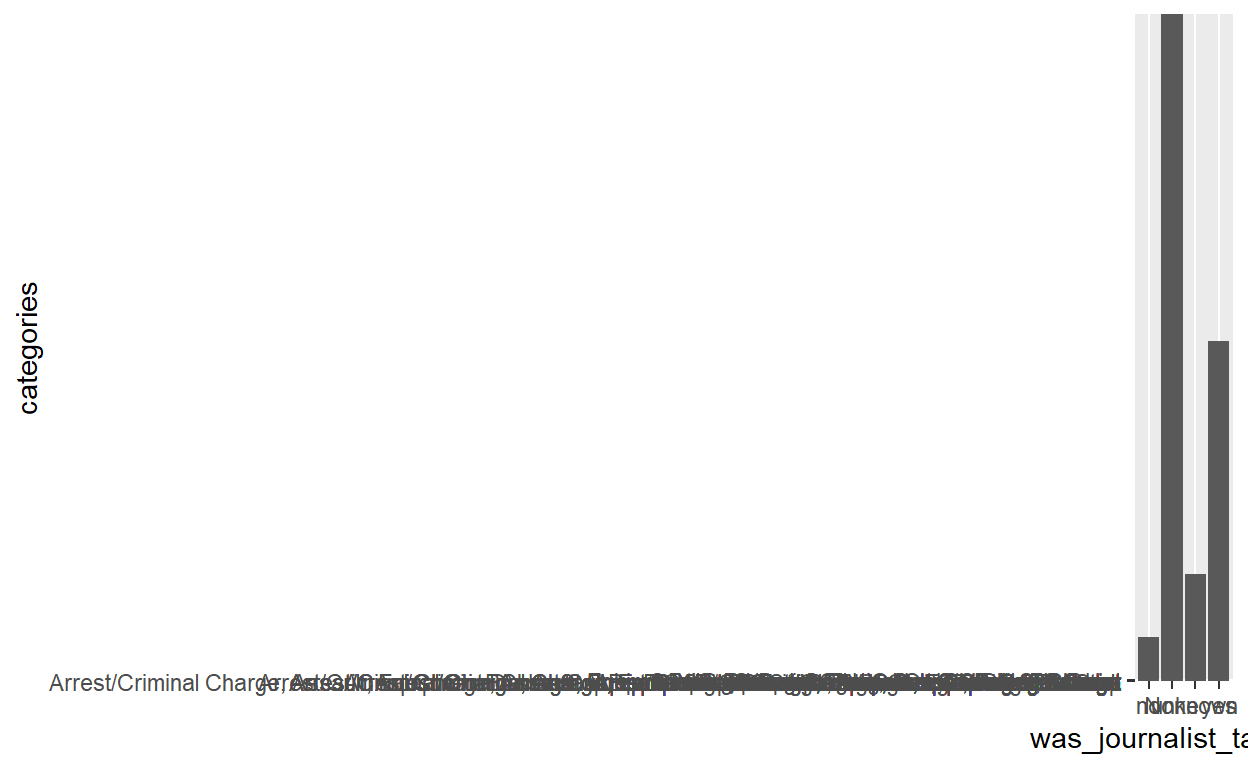
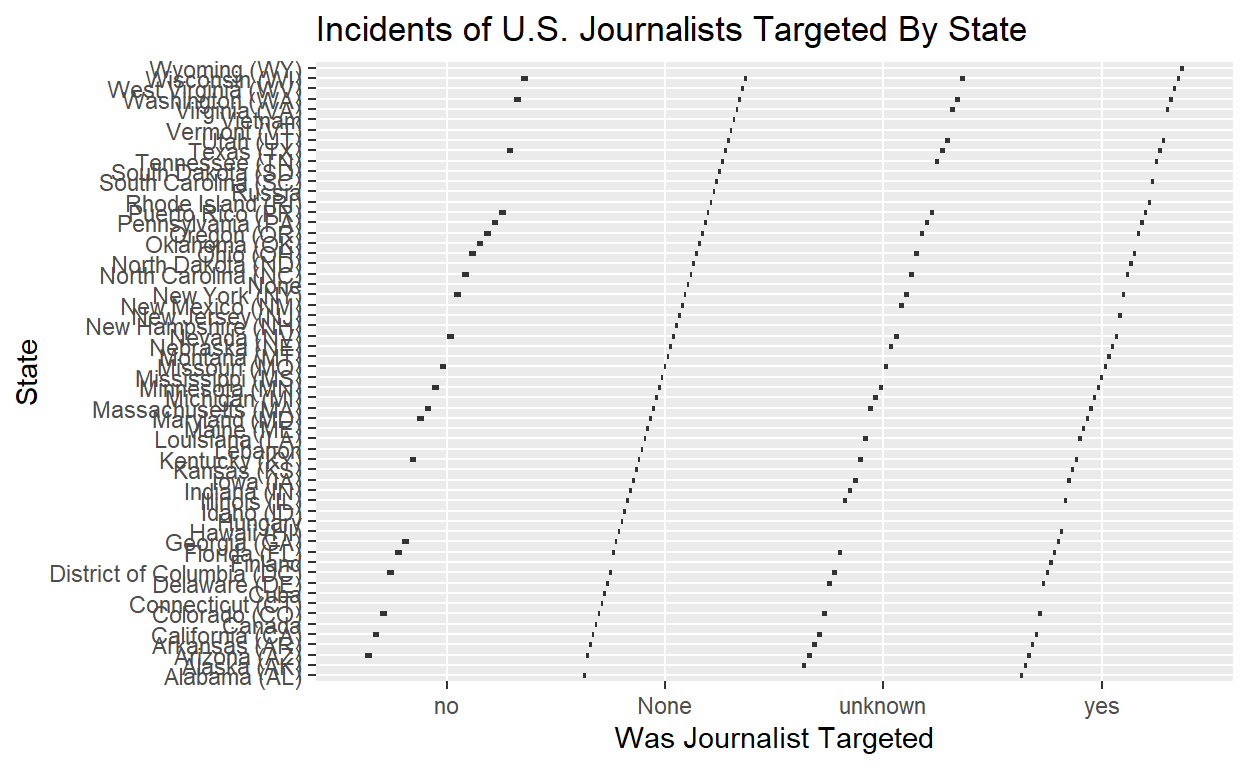
Milestone 3 again

Changed region(s): [[0.0312, 0.0, 1.0, 1.0], [0.25, 0.0, 0.8438, 0.0625], [0.0, 0.375, 0.0312, 0.5312]]

diff --git a/index.html b/index.html
@@ -1544,7 +1544,7 @@ code span.wa { color: #5e5e5e; font-style: italic; } /* Warning */
 
 <div class="d-article">
 <h2 id="project-thoughts">Project thoughts</h2>
-<p>Do most attacks targeted at journalists occur around protests? In this study, I will use the U.S. Press Freedom Tracker’s Incidents Database (<a href="https://pressfreedomtracker.us/all-incidents/?endpage=3" class="uri">https://pressfreedomtracker.us/all-incidents/?endpage=3</a>) to measure if the occurrence of a protest effects the likelihood of an attack targeted at a journalist. I hypothesize that protesting does spark journalist attacks. The first variable I will use is attacks on journalists in the U.S. The next variable I will use is protests in the U.S. that turn violent. The outcome variable I will measure if how many of those protests include attacks on journalists. The observed pattern will be correlation between violence at protests and journalists.</p>
+<p>Is there a correlation between attacks on U.S. jouranlists and location? In this study, I will use the U.S. Press Freedom Tracker’s Incidents Database (<a href="https://pressfreedomtracker.us/all-incidents/?endpage=3" class="uri">https://pressfreedomtracker.us/all-incidents/?endpage=3</a>) to measure if the occurrence of a protest effects the likelihood of an attack targeted at a journalist. I hypothesize that some states have more incidents than others. The first variable I will use is attacks on journalists in the U.S. The next variable I will use is states. The outcome variable I will measure is which states in the U.S. have the most attacks on journalists, and if this correlates to dominant ideologies in those states. The observed pattern will be correlation between states and attacks on journalists.</p>
 <div class="layout-chunk" data-layout="l-body">
 <div class="sourceCode">
 <pre class="sourceCode r"><code class="sourceCode r"><span><span class='kw'><a href='https://rdrr.io/r/base/library.html'>library</a></span><span class='op'>(</span><span class='va'><a href='https://tidyverse.tidyverse.org'>tidyverse</a></span><span class='op'>)</span></span></code></pre>
@@ -1579,9 +1579,10 @@ code span.wa { color: #5e5e5e; font-style: italic; } /* Warning */
 <div class="layout-chunk" data-layout="l-body">
 <div class="sourceCode">
 <pre class="sourceCode r"><code class="sourceCode r"><span><span class='va'>incidents_plot</span> <span class='op'>&lt;-</span> <span class='va'>incidents</span> <span class='op'>|&gt;</span></span>
-<span>  <span class='fu'><a href='https://dplyr.tidyverse.org/reference/group_by.html'>group_by</a></span><span class='op'>(</span><span class='va'>categories</span>, <span class='va'>was_journalist_targeted</span><span class='op'>)</span> <span class='op'>|&gt;</span></span>
-<span>  <span class='fu'><a href='https://ggplot2.tidyverse.org/reference/ggplot.html'>ggplot</a></span><span class='op'>(</span><span class='fu'><a href='https://ggplot2.tidyverse.org/reference/aes.html'>aes</a></span><span class='op'>(</span>x <span class='op'>=</span> <span class='va'>was_journalist_targeted</span>, y <span class='op'>=</span> <span class='va'>categories</span><span class='op'>)</span><span class='op'>)</span> <span class='op'>+</span></span>
-<span>  <span class='fu'><a href='https://ggplot2.tidyverse.org/reference/geom_bar.html'>geom_col</a></span><span class='op'>(</span><span class='op'>)</span></span>
+<span>  <span class='fu'><a href='https://dplyr.tidyverse.org/reference/group_by.html'>group_by</a></span><span class='op'>(</span><span class='va'>state</span>, <span class='va'>was_journalist_targeted</span><span class='op'>)</span> <span class='op'>|&gt;</span></span>
+<span>  <span class='fu'><a href='https://ggplot2.tidyverse.org/reference/ggplot.html'>ggplot</a></span><span class='op'>(</span><span class='fu'><a href='https://ggplot2.tidyverse.org/reference/aes.html'>aes</a></span><span class='op'>(</span>x <span class='op'>=</span> <span class='va'>was_journalist_targeted</span>, y <span class='op'>=</span> <span class='va'>state</span><span class='op'>)</span><span class='op'>)</span> <span class='op'>+</span></span>
+<span>  <span class='fu'><a href='https://ggplot2.tidyverse.org/reference/geom_boxplot.html'>geom_boxplot</a></span><span class='op'>(</span><span class='op'>)</span> <span class='op'>+</span></span>
+<span>  <span class='fu'><a href='https://ggplot2.tidyverse.org/reference/labs.html'>labs</a></span><span class='op'>(</span>x <span class='op'>=</span> <span class='st'>"Was Journalist Targeted"</span>, y <span class='op'>=</span> <span class='st'>"State"</span>, title <span class='op'>=</span> <span class='st'>"Incidents of U.S. Journalists Targeted By State"</span><span class='op'>)</span></span>
 <span><span class='va'>incidents_plot</span></span></code></pre>
 </div>
 <p><img src="index_files/figure-html5/unnamed-chunk-3-1.png" width="624" /></p>
